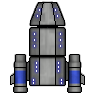
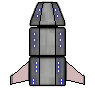
Modularising Engine
Engine now has its own class which is used for forward thrust.

Changed region(s): [[0.6947, 0.5, 0.8842, 0.8611], [0.1263, 0.5, 0.2947, 0.8611]]

diff --git a/pegasus-game/core/src/com/tlear/pegasus/Ship.java b/pegasus-game/core/src/com/tlear/pegasus/Ship.java
@@ -10,7 +10,9 @@ import com.badlogic.gdx.graphics.glutils.ShapeRenderer;
 import com.badlogic.gdx.graphics.glutils.ShapeRenderer.ShapeType;
 import com.badlogic.gdx.math.Vector2;
 import com.badlogic.gdx.math.Vector3;
+import com.tlear.pegasus.shipParts.BasicEngine;
 import com.tlear.pegasus.shipParts.PartType;
+import com.tlear.pegasus.shipParts.ShipEngine;
 import com.tlear.pegasus.shipParts.ShipLaser;
 import com.tlear.pegasus.shipParts.ShipPart;
 
@@ -38,13 +40,11 @@ public class Ship {
 	
 	// Ship movement model
 	private float shipAngle;
-	private float shipSpeed;
 	
 	private ShipDirection shipDirection;
 	public float rotationalVelocity;
 	
 	// Constraints
-	private int maxSpeed;
 	private int maxRotationalVelocity;
 	
 	// Ship texture size
@@ -98,8 +98,7 @@ public class Ship {
 		font.setColor(Color.GREEN);
 		
 		
-		// Initialise speed and rotation
-		shipSpeed = 0f;
+		// Initialise rotation
 		shipAngle = 0f;
 		rotationalVelocity = 0f;
 		
@@ -135,8 +134,12 @@ public class Ship {
 		parts = new HashMap<PartType, Set<ShipPart>>();
 		HashSet<ShipPart> lasers = new HashSet<ShipPart>();
 		lasers.add(new ShipLaser(new Vector2(shipTexWidth / 2, shipTexHeight / 2)));	// Have a standard laser cannon
+		// Engines
+		HashSet<ShipPart> engines = new HashSet<ShipPart>();
+		engines.add(new BasicEngine(new Vector2(20, shipTexHeight - 78)));
 		
 		parts.put(PartType.LASER, lasers);
+		parts.put(PartType.ENGINE, engines);
 		
 		laserTarget = new Vector2();
 		
@@ -146,7 +149,6 @@ public class Ship {
 		this.windowHeight = windowHeight;
 		
 		// Initialise constraints
-		maxSpeed = 200;
 		maxRotationalVelocity = 2;
 		
 		// Set debug mode
@@ -161,6 +163,12 @@ public class Ship {
 		batch.begin();
 		// Draw ship
 		batch.draw(shipTextures.get(shipDirection), disp.x, disp.y, shipTexWidth / 2, shipTexHeight / 2, shipTexWidth, shipTexHeight, 1.0f, 1.0f, shipAngle);
+		
+		// Draw engines
+		for (ShipPart p : parts.get(PartType.ENGINE)) {
+			ShipEngine e = (ShipEngine) p;
+			batch.draw(e.getTextureRegion(), disp.x + e.getDisp().x, disp.y + e.getDisp().y, shipTexWidth / 2 - e.getDisp().x, shipTexHeight / 2 - e.getDisp().y, e.getTexWidth(), e.getTexHeight(), 1.0f, 1.0f, e.getDispAngle());
+		}
 		batch.end();
 		
 		
@@ -219,13 +227,18 @@ public class Ship {
 			((ShipLaser) p).notFiring();
 		}
 		
-		// Move the ship
-
-		double dx = shipSpeed * Math.cos(degreesToRadians(shipAngle+90)) * Gdx.graphics.getDeltaTime();
-		double dy = shipSpeed * Math.sin(degreesToRadians(shipAngle+90)) * Gdx.graphics.getDeltaTime();
-		
-		x += dx;
-		y += dy;
+		/* Move the ship */
+		// Sum the velocities of the engines!
+		Vector2 d = new Vector2(0, 0);
+		for (ShipPart p : parts.get(PartType.ENGINE)) {
+			d.add(((ShipEngine) p).getVelocity());
+		}
+		// Scale by delta
+		d.scl(Gdx.graphics.getDeltaTime());
+			
+		// Update ship location
+		x += d.x;
+		y += d.y;
 		
 		shipAngle += rotationalVelocity;
 		// Rotate all the parts
@@ -242,7 +255,7 @@ public class Ship {
 	
 		
 		if (debugMode) {
-			debugString = "Speed: " + shipSpeed;
+			debugString = "Speed: " + d.len();
 			debugString+= "\nAngle: " + (int) shipAngle; 
 			debugString+= "\nx: " + (int) x; 
 			debugString+= "\ny: " + (int) y;
@@ -259,13 +272,18 @@ public class Ship {
 		}
 	}
 	
-	public void addSpeed(int s) {
-		if (shipSpeed + s <= maxSpeed && shipSpeed + s >= -maxSpeed / 2) {
-			shipSpeed += s;
-			shipDirection = s > 0 ? ShipDirection.FORWARD : ShipDirection.BACKWARD;
-		} else {
-			shipDirection = shipDirection != ShipDirection.NONE ? shipDirection : ShipDirection.NONE;
+	public void addSpeed() {
+		for (ShipPart p : parts.get(PartType.ENGINE)) {
+			((ShipEngine) p).increaseThrust();
 		}
+		shipDirection = ShipDirection.FORWARD;
+	}
+
+	public void reduceSpeed() {
+		for (ShipPart p : parts.get(PartType.ENGINE)) {
+			((ShipEngine) p).decreaseThrust();
+		}
+		shipDirection = ShipDirection.BACKWARD;
 	}
 	
 	public void fireLasers(Vector3 pos) {
@@ -293,7 +311,9 @@ public class Ship {
 	}
 	
 	public void stopMoving() {
-		shipSpeed = 0;
+		for (ShipPart p : parts.get(PartType.ENGINE)) {
+			((ShipEngine) p).zero();
+		}
 		rotationalVelocity = 0;
 		shipDirection = ShipDirection.NONE;
 	}
@@ -321,12 +341,6 @@ public class Ship {
 		} else if (y < -shipHeight/2) {
 			y = windowHeight - shipHeight/2;
 		}
-	}
-
-	
-	/* MATHS */
-	private double degreesToRadians(float deg) {
-		return deg * Math.PI / 180;
 	}
 	
 	

diff --git a/pegasus-game/core/src/com/tlear/pegasus/shipParts/ShipEngine.java b/pegasus-game/core/src/com/tlear/pegasus/shipParts/ShipEngine.java
@@ -1,0 +1,98 @@
+package com.tlear.pegasus.shipParts;
+
+import com.badlogic.gdx.math.Vector2;
+import com.tlear.pegasus.Hitbox;
+
+public abstract class ShipEngine implements ShipPart {
+	// Model
+	protected float x;
+	protected float y;
+	protected float angle;
+	
+	protected float maxSpeed;
+	protected float thrust;
+	
+	protected Vector2 velocity;
+	
+	protected Hitbox hitbox;
+	
+	public ShipEngine(Vector2 pos) {
+		x = pos.x;
+		y = pos.y;
+		angle = 0;
+		maxSpeed = 0;
+		velocity = new Vector2(0, 0);
+		thrust = 0;
+		hitbox = new Hitbox(x, y, 0, 0);
+	}
+	
+	/* Textures */
+	// Not managed by abstract class
+	
+	/* Model */
+	// Set the location of the part in terms of offset of the hull they are attached to
+	public void setX(float x) {
+		this.x = x;
+	}
+	public void setY(float y) {
+		this.y = y;
+	}
+	// Get the location of the part in terms of offset of the hull they are attached to
+	public float getX() { 
+		return x;
+	}
+	public float getY() {
+		return y;
+	}
+	// We do not need any "addX or addY" as these should never be changed, only reset
+	
+	// Set the angle of the part in relation to the part
+	// i.e. 0 degrees is up for that part (add to angle of hull when drawing)
+	public void setAngle(float a) {
+		this.angle = a;
+	}
+	// Get the angle of the part in relation to that part
+	public float getAngle() {
+		 return angle;
+	}
+	
+	// Get the hitbox of the part - this is the square that denotes where the part is
+	public Hitbox getHitbox() {
+		return hitbox;
+	}
+	
+	/* Engine only */
+	// Fire engine in a direction
+	public void thrust(int sign) {
+		Vector2 tmp = new Vector2(velocity);
+		double dx = (sign * thrust) * Math.cos(degreesToRadians(angle+90));
+		double dy = (sign * thrust) * Math.sin(degreesToRadians(angle+90));
+		tmp.add(new Vector2((float) dx, (float) dy));
+		if (tmp.len() <= maxSpeed) {
+			velocity = new Vector2(tmp);
+		}
+	}
+	public void increaseThrust() {
+		thrust(1);
+	}
+	public void decreaseThrust() {
+		thrust(-1);
+	}
+	public void zero() {
+		velocity = new Vector2(0, 0);
+	}
+	
+	// Getters
+	
+	public float getMaxSpeed() {
+		return maxSpeed;
+	}
+	public Vector2 getVelocity() {
+		return new Vector2(velocity);
+	}
+	
+	/* MATHS */
+	private double degreesToRadians(float deg) {
+		return deg * Math.PI / 180;
+	}
+}

diff --git a/pegasus-game/core/src/com/tlear/pegasus/shipParts/BasicEngine.java b/pegasus-game/core/src/com/tlear/pegasus/shipParts/BasicEngine.java
@@ -1,0 +1,68 @@
+package com.tlear.pegasus.shipParts;
+
+import com.badlogic.gdx.Gdx;
+import com.badlogic.gdx.graphics.Texture;
+import com.badlogic.gdx.graphics.g2d.TextureRegion;
+import com.badlogic.gdx.math.Vector2;
+
+public class BasicEngine extends ShipEngine implements ShipPart {
+
+	/* Texture */
+	private Texture img;
+	private TextureRegion tex;
+	
+	private float texWidth;
+	private float texHeight;
+	
+	private Vector2 disp;
+	private float dispAngle;
+	
+	public BasicEngine(Vector2 pos) {
+		super(pos);
+		
+		img = new Texture(Gdx.files.internal("basicEngine.png"));
+		tex = new TextureRegion(img);
+		
+		// Set max speed and thrust!
+		maxSpeed = 200;
+		thrust = 5;
+		
+		texWidth = 15;
+		texHeight = 39;
+		
+		dispAngle = angle;
+		
+		disp = new Vector2(x - texWidth / 2, y - texHeight / 2);
+		
+	}
+	@Override
+	public TextureRegion getTextureRegion() {
+		return tex;
+	}
+
+	@Override
+	public float getTexWidth() {
+		return texWidth;
+	}
+
+	@Override
+	public float getTexHeight() {
+		return texHeight;
+	}
+
+	@Override
+	public Vector2 getDisp() {
+		return new Vector2(disp);
+	}
+
+	@Override
+	public void setDispAngle(float a) {
+		dispAngle = a;
+	}
+
+	@Override
+	public float getDispAngle() {
+		return dispAngle;
+	}
+
+}

diff --git a/pegasus-game/core/src/com/tlear/pegasus/Pegasus.java b/pegasus-game/core/src/com/tlear/pegasus/Pegasus.java
@@ -76,10 +76,10 @@ public class Pegasus extends ApplicationAdapter {
 			ship.addAngle(-0.05f);
 		}
 		if (Gdx.input.isKeyPressed(Keys.S)) { 
-			ship.addSpeed(-5);
+			ship.reduceSpeed();
 		}
 		if (Gdx.input.isKeyPressed(Keys.W)) {
-			ship.addSpeed(5);
+			ship.addSpeed();
 		}
 		if (Gdx.input.isKeyPressed(Keys.X)) {
 			ship.stopMoving();

diff --git a/pegasus-game/core/src/com/tlear/pegasus/shipParts/ShipLaser.java b/pegasus-game/core/src/com/tlear/pegasus/shipParts/ShipLaser.java
@@ -5,7 +5,7 @@ import com.badlogic.gdx.graphics.g2d.TextureRegion;
 import com.badlogic.gdx.math.Vector2;
 import com.tlear.pegasus.Hitbox;
 
-public class ShipLaser extends ShipWeapon {
+public class ShipLaser extends ShipWeapon implements ShipPart {
 	// Texture
 	private Texture laserImage;
 	private TextureRegion laserTexture;

diff --git a/pegasus-game/core/src/com/tlear/pegasus/shipParts/PartType.java b/pegasus-game/core/src/com/tlear/pegasus/shipParts/PartType.java
@@ -1,5 +1,5 @@
 package com.tlear.pegasus.shipParts;
 
 public enum PartType {
-	NONE, LASER
+	NONE, LASER, ENGINE
 }
